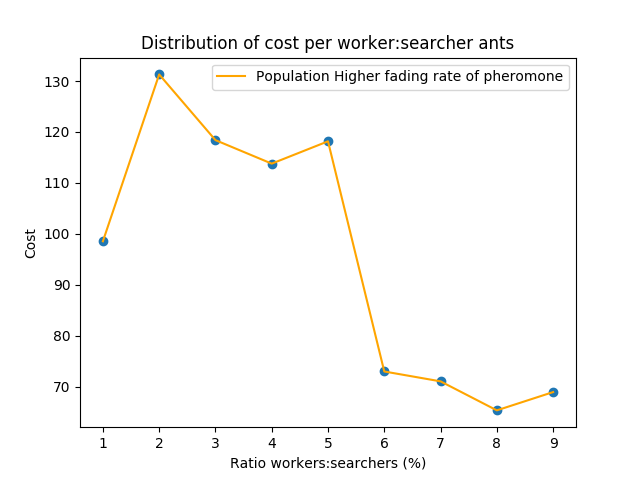
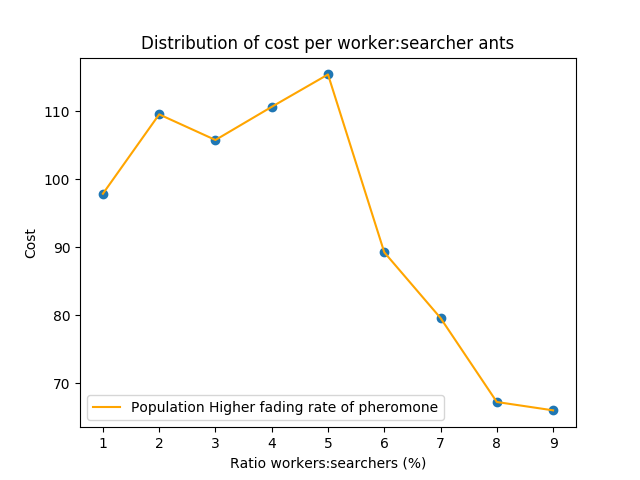
force merge

diff --git a/test_grid.py b/test_grid.py
@@ -775,7 +775,7 @@ def make_data(grid, strength, fade, food_sources):
         total_board = 0
 
         # determine the amount of boards and the cost of 100 iterations
-        amount_iterations = 50
+        amount_iterations = 100
         for i in range(amount_iterations):
             # make the environment for the simulation
             world = Grid([grid, strength, fade, search, work])
@@ -863,34 +863,33 @@ while not correct_input:
         food_sources = [(11,18)]
         food_sources2 = [(11, 18), (2, 1)]
 
-        cost, boards = make_data(25, 0.1, 0.005, food_sources)
-        with open("cost.txt", "w") as output:
-            output.write(str(cost))
-            output.write(str(boards))
+        # cost, boards = make_data(25, 0.1, 0.005, food_sources)
+        # with open("cost.txt", "w") as output:
+        #     output.write(str(cost))
+        #     output.write(str(boards))
 
-        cost1, boards1 = make_data(25, 0.1, 0.005, food_sources2)
-        with open("cost1.txt", "w") as output:
-            output.write(str(cost1))
-            output.write(str(boards1))
+        # cost1, boards1 = make_data(25, 0.1, 0.005, food_sources2)
+        # with open("cost1.txt", "w") as output:
+        #     output.write(str(cost1))
+        #     output.write(str(boards1))
 
-        cost2, boards2 = make_data(25, 0.2, 0.005, food_sources)
-        with open("cost2.txt", "w") as output:
-            output.write(str(cost2))
-            output.write(str(boards2))
+        # cost2, boards2 = make_data(25, 0.2, 0.005, food_sources)
+        # with open("cost2.txt", "w") as output:
+        #     output.write(str(cost2))
+        #     output.write(str(boards2))
 
-        cost3, boards3 = make_data(25, 0.1, 0.01, food_sources)
-        with open("cost3.txt", "w") as output:
-            output.write(str(cost3))
-            output.write(str(boards3))
+        # cost3, boards3 = make_data(25, 0.1, 0.01, food_sources)
+        # with open("cost3.txt", "w") as output:
+        #     output.write(str(cost3))
+        #     output.write(str(boards3))
 
-        end = time.time()
+        cost = [35.1629999999999, 65.93599999999932, 60.98299999999982, 63.50499999999972, 58.5399999999997, 81.97399999999936, 71.29199999999955, 64.08199999999961, 69.51199999999966]
 
-        print(cost)
-        print(cost1)
-        print(cost2)
-        print(cost3)
+        
+        cost2 = [62.30099999999966, 98.12499999999922, 110.58899999999875, 102.2749999999997, 102.4589999999991, 88.06799999999899, 67.72599999999944, 70.39599999999965, 70.13599999999973]
+        cost3 = [97.85099999999964, 109.52099999999947, 105.75499999999964, 110.6309999999996, 115.39099999999937, 89.23599999999898, 79.57199999999912, 67.2249999999997, 65.99899999999984]
 
-        plot_distributions(cost, cost1, 'with one food source', 'with two food sources', 'diff_food_source.png')
+        #plot_distributions(cost, cost1, 'with one food source', 'with two food sources', 'diff_food_source.png')
         plot_distributions(cost, cost2, 'strength of 0.1', 'strength of 0.2', 'diff_pher_strength.png')
         plot_distributions(cost, cost3, 'fade of 0.005', 'fade of 0.01', ' diff_pher_fade.png')
 

diff --git a/final.py b/final.py
@@ -19,18 +19,11 @@ from statistics import stdev
 
 from scipy.stats import norm
 
-cost = [29.40199999999977, 55.60799999999975, 69.1879999999993, 75.95399999999943, 58.23599999999997, 63.727999999999454, 76.64599999999909, 68.73999999999944, 62.928000000000104]
-boards = [228.82, 228.34, 212.74, 212.9, 166.2, 155.38, 170.0, 143.44, 131.72]
+cost = [35.1629999999999, 65.93599999999932, 60.98299999999982, 63.50499999999972, 58.5399999999997, 81.97399999999936, 71.29199999999955, 64.08199999999961, 69.51199999999966]
 
+cost2 = [62.30099999999966, 98.12499999999922, 110.58899999999875, 102.2749999999997, 102.4589999999991, 88.06799999999899, 67.72599999999944, 70.39599999999965, 70.13599999999973]
+cost3 = [97.85099999999964, 109.52099999999947, 105.75499999999964, 110.6309999999996, 115.39099999999937, 89.23599999999898, 79.57199999999912, 67.2249999999997, 65.99899999999984]
 
-cost1= [17.429999999999776, 56.44799999999994, 98.45400000000005, 139.56199999999998, 138.83799999999997, 166.746, 179.166, 175.09200000000004, 200.0]
-boards1 = [191.68, 221.46, 308.56, 381.6, 370.5, 433.26, 462.02, 450.34, 500.0]
-
-cost2  = [54.284999999999734, 86.56299999999963, 111.38799999999938, 111.48699999999948, 105.5279999999994, 84.54799999999904, 76.93799999999926, 74.60799999999944, 71.62399999999963]
-board3 = [280.78, 272.1, 301.39, 288.02, 260.46, 197.49, 169.48, 159.96, 145.97]
-
-cost3 = [98.54199999999966, 131.28999999999922, 118.39799999999954, 113.78599999999955, 118.16799999999925, 72.99399999999932, 71.05799999999925, 65.36599999999984, 68.95199999999971]
-boards3 = [331.5, 317.92, 286.78, 269.96, 262.72, 173.46, 158.68, 142.34, 139.98]
 
 
 
@@ -63,7 +56,7 @@ def ttest_pvalue(pop1, pop2):
 
 
 
-food_t, food_p = ttest_pvalue(cost, cost1)
+#food_t, food_p = ttest_pvalue(cost, cost1)
 strength_t, strength_p = ttest_pvalue(cost, cost2)
 fade_t, fade_p = ttest_pvalue(cost, cost3)
 
@@ -98,6 +91,6 @@ def scatter_boiii(cost, term, titel):
     plt.show()
 
 scatter_boiii(cost, 'Baseline', 'baseline.png')
-scatter_boiii(cost1, 'Two food sources', 'two_food_boisss.png')
+#scatter_boiii(cost1, 'Two food sources', 'two_food_boisss.png')
 scatter_boiii(cost2, 'Higher pheromone strength', 'high_on_pheromone.png')
 scatter_boiii(cost3, 'Higher fading rate of pheromone', 'fading.png')
